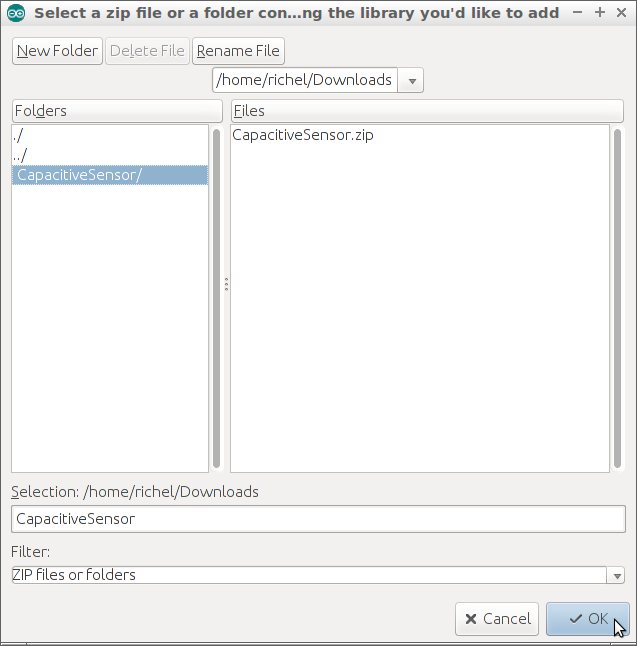
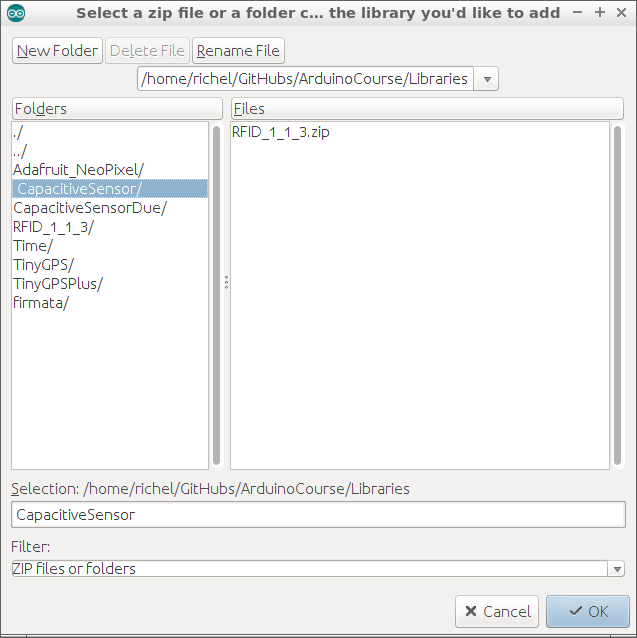
EOD

diff --git a/Lessen/CapacitatieveSensor1/README.md b/Lessen/CapacitatieveSensor1/README.md
@@ -5,6 +5,28 @@ kun je een drukknop gebruiken. Maar misschien zoek
 je wel iets (nog) simpelers. Dan maak je een
 capacitatieve sensor, met twee weerstandjes.
 
+## Bibliotheek geinstalleerd?
+
+In de Arduino IDE, ga naar `Examples`. Zie je `CapacitiveSensor` ertussen staan? Dan is deze bibliotheek al geinstalleerd!
+
+![Als CapacitiveSensor ertussen staat, is deze bibliotheek al geinstalleerd](CapacitatieveSensor1Example.png)
+
+## Bibliotheek geinstalleren
+
+Is `CapacitiveSensor` niet geinstalleerd, doe dan:
+
+ * Klik in de Arduino IDE op `Sketch | Import Library | Add Library`
+
+![Add Library](CapacitatieveSensor1AddLibrary.png)
+
+ * Klik op de *folder* en op OK
+
+![Add Library folder](CapacitatieveSensor1AddLibraryFolder.png)
+
+ * Nu is de bibliotheek geinstalleerd:
+
+![Het is gelukt](CapacitatieveSensor1GeluktAnnotated.png)
+
 ## Stroomschema
 
 ![Stroomschema](CapacitieveSensor1Aansluiten.png)
@@ -18,32 +40,6 @@ weerstandjes nodig:
 Tussen de twee weerstanden in kun je drukken en dan 
 merkt de Arduino dat. Op het stroomschema staat er
 een weerstand van nul Ohm getekent.
-
-## Voorbereiden
-
-Om de code te kunnen laten werken, heb je een bibliotheek nodig.
-In het Engels heet dat een bibliotheek een 'library'.
-De bibliotheek die je nodig hebt heet 'CapacitiveSensor'.
-Je kunt de bibliotheek vinden door te Googlen op `Arduino Capacitive Sensing Library`.
-De pagina die je nodig hebt is van [Arduino Playground](http://playground.arduino.cc/Main/CapacitiveSensor?from=Main.CapSense). 
-
- * Download de bibliotheek. Dit is een `.zip` bestand. Bij mij heet deze `arduino-libraries-CapacitiveSensor-0.5-0-g7684dff.zip`, maar het kan ook iets anders zijn
- * Ga naar de Downloads folder
- * Pak het bestand uit: klik op het bestand met de recht muisknop en kies 'Alles uitpakken' 
-   (of iets dergelijks). Je krijgt een dan folder met een naam als 
-   `arduino-libraries-CapacitiveSensor-0.5-0-g7684dff`
- * Verander de naam van de folder naar `CapacitiveSensor`
- * Klik in de Arduino IDE op `Sketch | Import Library | Add Library`
-
-![Add Library](CapacitatieveSensor1AddLibrary.png)
-
- * Klik op de *folder* en op OK
-
-![Add Library folder](CapacitatieveSensor1AddLibraryFolder.png)
-
- * Nu is de bibliotheek geinstalleerd:
-
-![Het is gelukt](CapacitatieveSensor1Gelukt.png)
 
 ## Code
 
